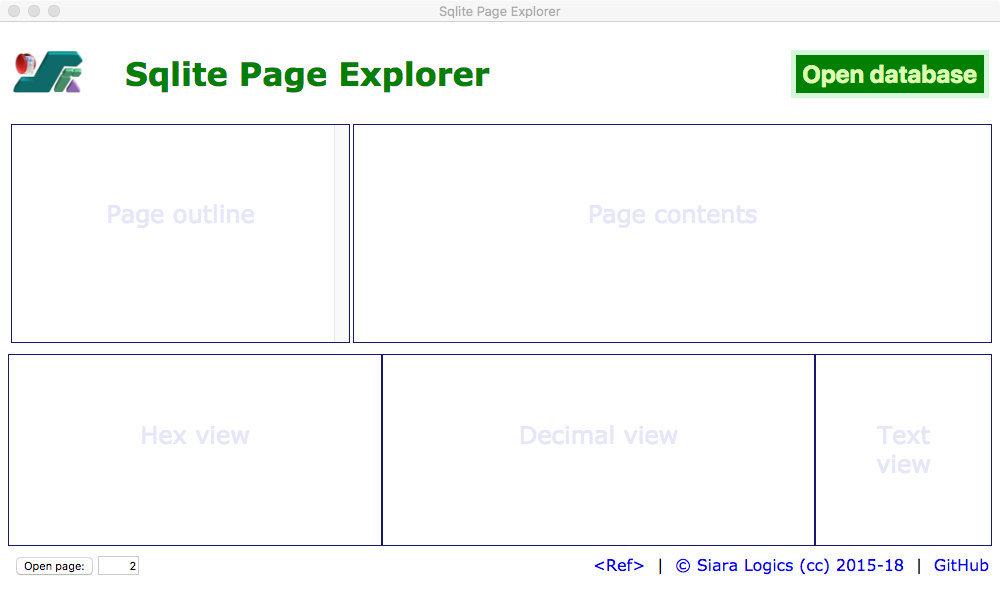
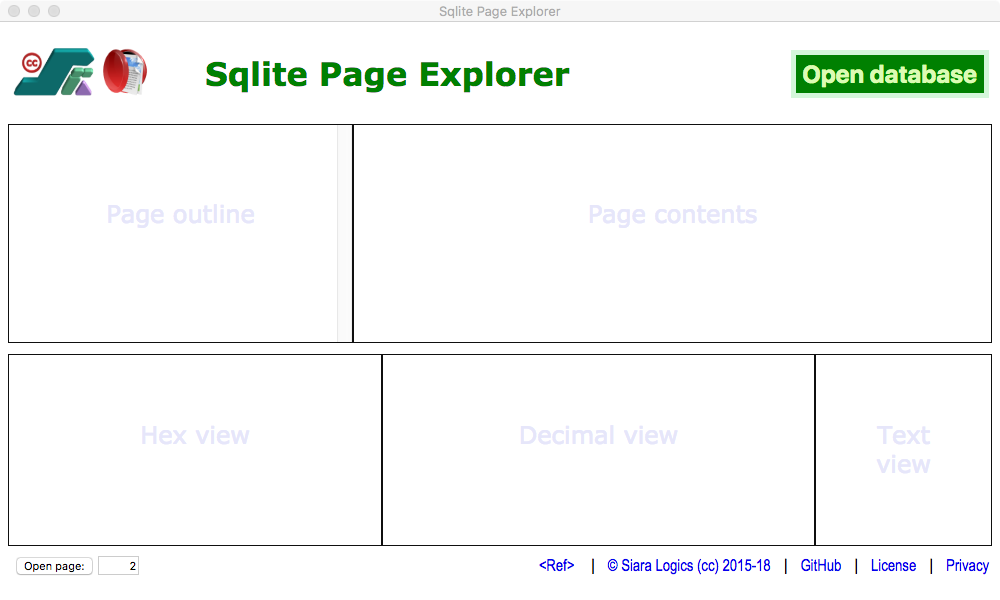
update screenshots

Changed region(s): [[0.0, 0.06, 0.589, 0.18], [0.031, 0.57, 0.992, 0.6], [0.527, 0.93, 0.992, 0.96]]

diff --git a/index.html b/index.html
@@ -62,9 +62,9 @@
         &nbsp;|&nbsp;
         <a href="https://github.com/siara-cc/sqlite3_page_explorer">GitHub</a>
         &nbsp;|&nbsp;
-        <a href="https://github.com/siara-cc/sqlite3_page_explorer/eula.htm?raw=true">License</a>
+        <a href="http://htmlpreview.github.com/?https://github.com/siara-cc/sqlite3_page_explorer/blob/master/eula.htm">License</a>
         &nbsp;|&nbsp;
-        <a href="https://github.com/siara-cc/sqlite3_page_explorer/privacy.htm?raw=true">Privacy</a>
+        <a href="http://htmlpreview.github.com/?https://github.com/siara-cc/sqlite3_page_explorer/blob/master/privacy.htm">Privacy</a>
       </td>
     </tr></table>
   </body>
